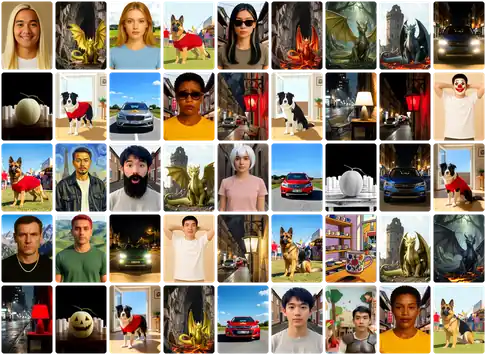
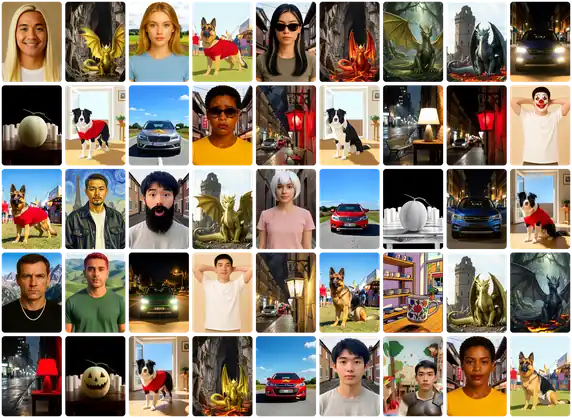
Restore the full wall tile size (240 x 320)
The last wall rebuild shrank the tiles to 204 x 272 to save bytes, which made
the background visibly softer. Go back to the original 240 x 320 tiles with the
original gap and corner radius; the longer 16-row loop stays. The still wall is
2286 x 1670 again and the moving wall 2286 x 5344 (about 1.4 MB).

diff --git a/index.html b/index.html
@@ -193,8 +193,8 @@
        light copy paints first, even on a weak connection; app.js then sets it
        drifting and swaps in the full-quality wall once that has downloaded -->
   <div class="wall" aria-hidden="true">
-    <img src="static/figures/wall-lite.webp?v=5" width="1944" height="1420" alt="" fetchpriority="high" decoding="async">
-    <noscript><img src="static/figures/wall.webp?v=5" width="1944" height="1420" alt=""></noscript>
+    <img src="static/figures/wall-lite.webp?v=5" width="2286" height="1670" alt="" fetchpriority="high" decoding="async">
+    <noscript><img src="static/figures/wall.webp?v=5" width="2286" height="1670" alt=""></noscript>
   </div>
 
   <div class="wrap">

diff --git a/static/css/style.css b/static/css/style.css
@@ -345,9 +345,9 @@ a:hover{color:var(--accent);text-decoration-color:currentColor}
   position:absolute;inset:0;z-index:-1;overflow:hidden;pointer-events:none;
   /* the wall's drawn width: 1.369 is wall.webp's aspect, and the 118% leaves
      room for the tilt. --wh is the height of one loop of wall-motion.webp
-     (4544 / 1944 of its width). */
+     (5344 / 2286 of its width). */
   --ww:max(118vw,calc(118vh * 1.369));
-  --wh:calc(var(--ww) * 2.3374);
+  --wh:calc(var(--ww) * 2.3377);
 }
 .wall img{
   position:absolute;left:50%;top:50%;max-width:none;height:auto;

diff --git a/tools/build_wall.py b/tools/build_wall.py
@@ -32,8 +32,8 @@ IMG = os.path.join(ROOT, "static", "images")
 FIG = os.path.join(ROOT, "static", "figures")
 
 COLS = 9
-TILE_W, TILE_H = 204, 272          # 3:4, the shape of every result crop
-GAP, RADIUS = 12, 10
+TILE_W, TILE_H = 240, 320          # 3:4, the shape of every result crop
+GAP, RADIUS = 14, 12
 SEED = 7
 
 STATIC_ROWS = 5                    # about what the tilted masthead shows
